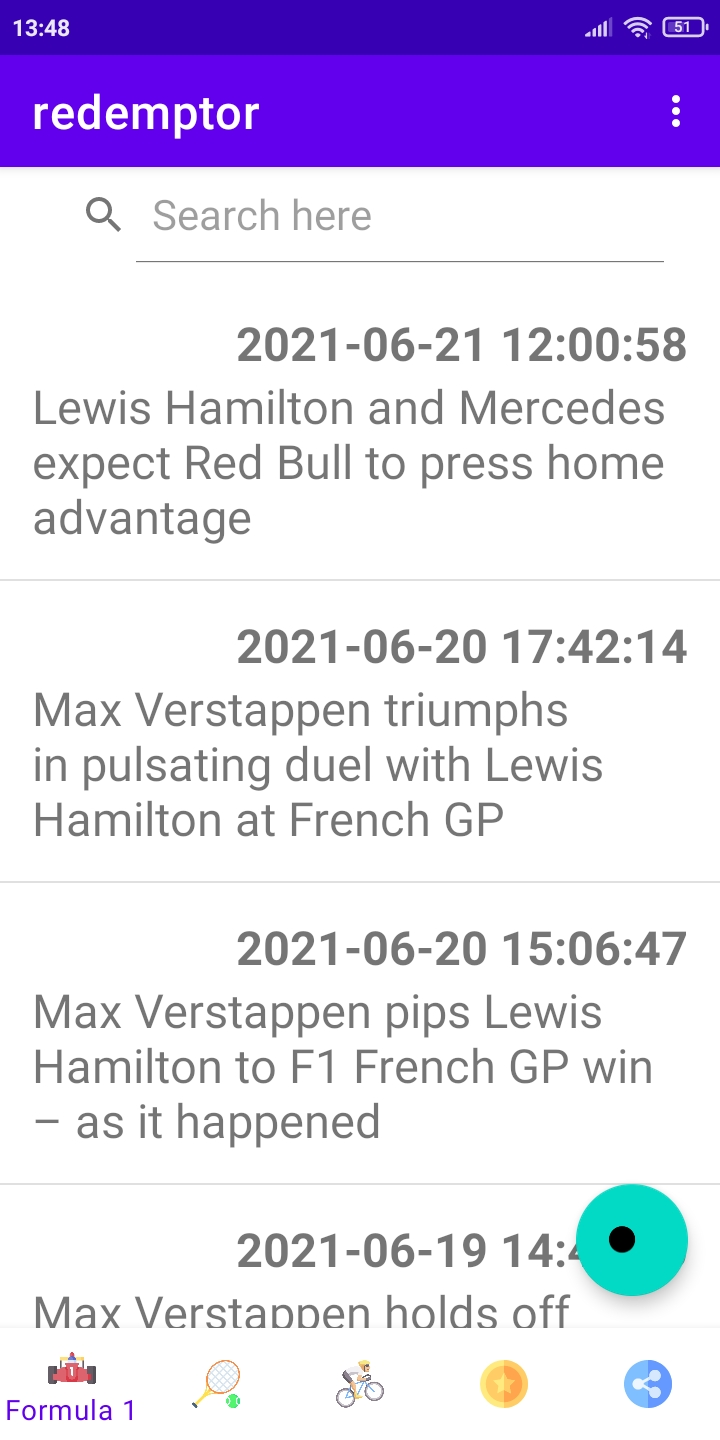
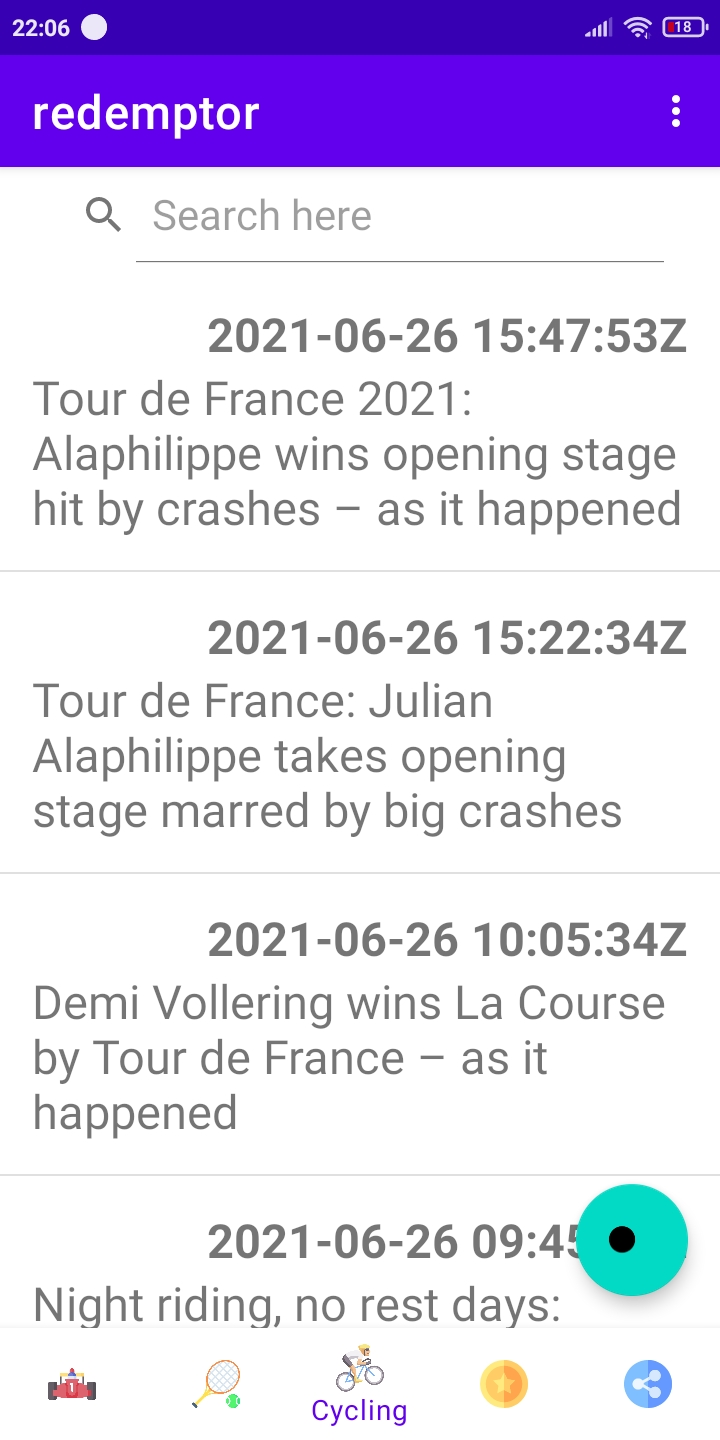
utc time zone

diff --git a/SportNewsApp/app/src/main/java/it/sapienza/sportnewsapp/ui/favorites/FavoritesRepository.kt b/SportNewsApp/app/src/main/java/it/sapienza/sportnewsapp/ui/favorites/FavoritesRepository.kt
@@ -52,7 +52,7 @@ class FavoritesRepository(adapter: FavoritesAdapter, googleIdToken: String) : Fa
                     var news: News
                     for (i in 0 until results.size) {
                         val date = results[i].webPublicationDate.subSequence(0, 10).toString()
-                        val time = results[i].webPublicationDate.subSequence(11, 19).toString()
+                        val time = results[i].webPublicationDate.subSequence(11, 20).toString()
                         news = News(results[i].id, date+" "+time, results[i].webTitle, results[i].webUrl)
                         data[i] = news
                         Log.i("info", news.toString())

diff --git a/SportNewsApp/app/src/main/java/it/sapienza/sportnewsapp/news/NewsRepository.kt b/SportNewsApp/app/src/main/java/it/sapienza/sportnewsapp/news/NewsRepository.kt
@@ -42,7 +42,7 @@ class NewsRepository(adapter: NewsAdapter) : NewsCRUD {
                     var news: News
                     for (i in 0 until results.size) {
                         val date = results[i].webPublicationDate.subSequence(0, 10).toString()
-                        val time = results[i].webPublicationDate.subSequence(11, 19).toString()
+                        val time = results[i].webPublicationDate.subSequence(11, 20).toString()
                         news = News(results[i].id, date+" "+time, results[i].webTitle, results[i].webUrl)
                         data[i] = news
                         Log.i("info", news.toString())
